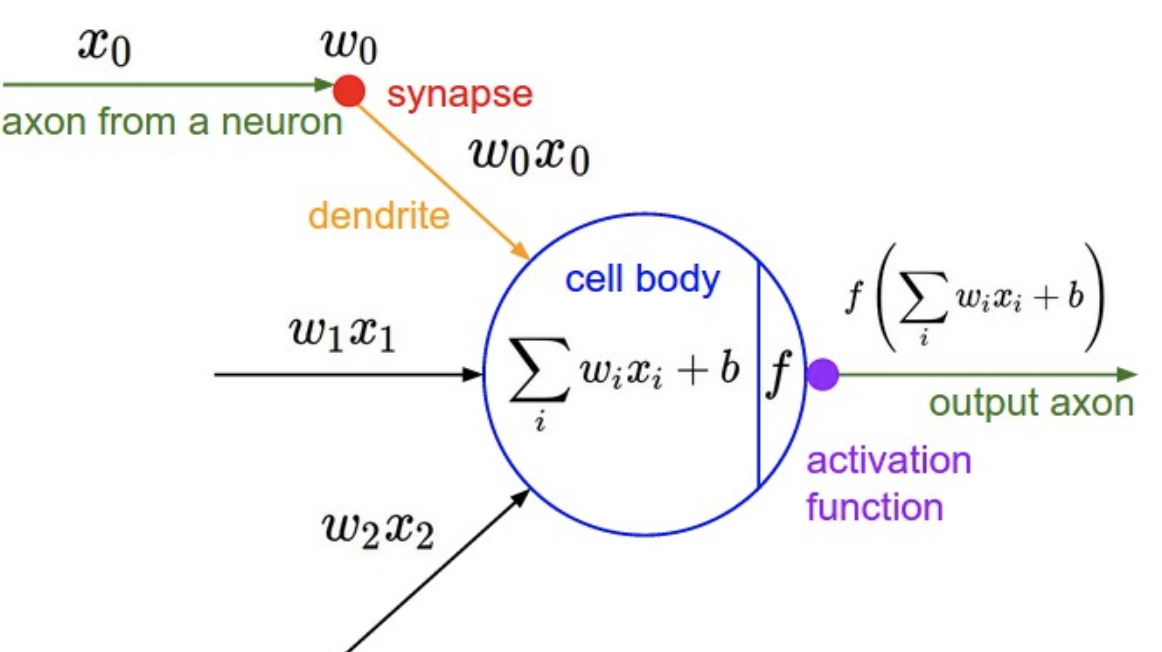
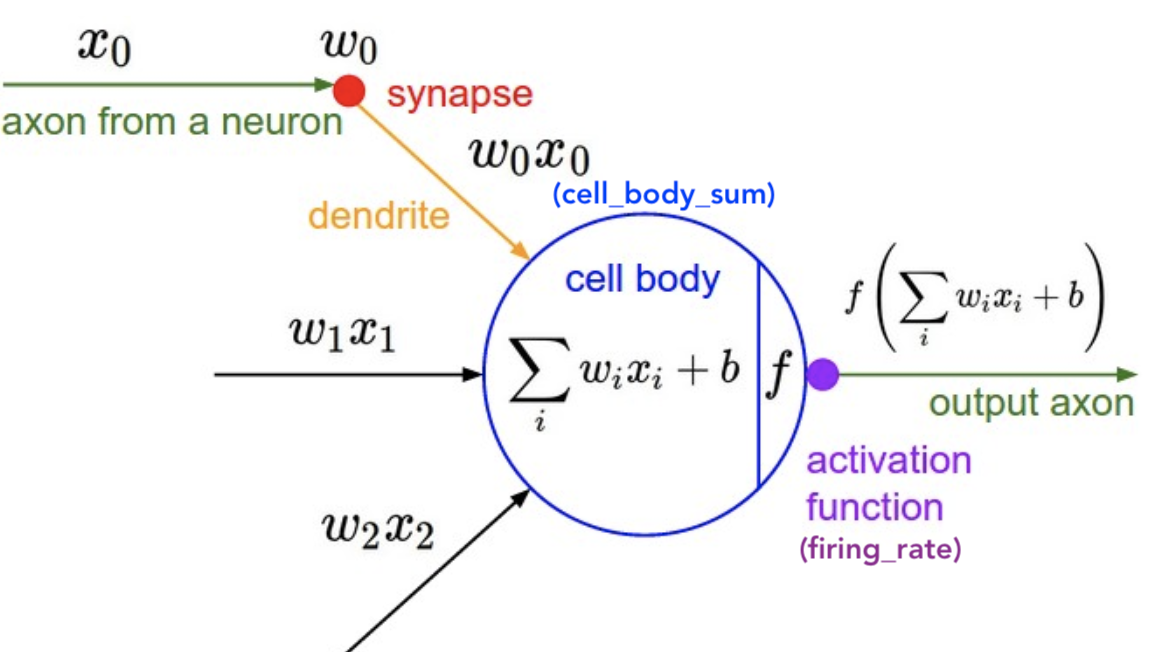
post fix2

Changed region(s): [[0.4647, 0.2761, 0.6816, 0.3374], [0.6816, 0.8282, 0.8365, 0.8896]]

diff --git a/_posts/Computer Vision/2020-02-07-ComputerVision1.md b/_posts/Computer Vision/2020-02-07-ComputerVision1.md
@@ -255,9 +255,9 @@ K-Nearest Neighbor Classifier
 
 #### Neural Network
 
-##### Neuron
+##### Neuron <a name="cellBodySum"></a>
 
-<img src="/assets/images/计视/myNote/pic01/Screen Shot 2021-07-26 at 1.39.00 PM.png" alt="Screen Shot 2021-07-26 at 1.39.00 PM" style="zoom:40%;" /> <a name="cellBodySum"></a>
+<img src="/assets/images/计视/myNote/pic01/Screen Shot 2021-07-26 at 1.39.00 PM.png" alt="Screen Shot 2021-07-26 at 1.39.00 PM" style="zoom:40%;" /> 
 
 ```python
 class Neuron(object):
